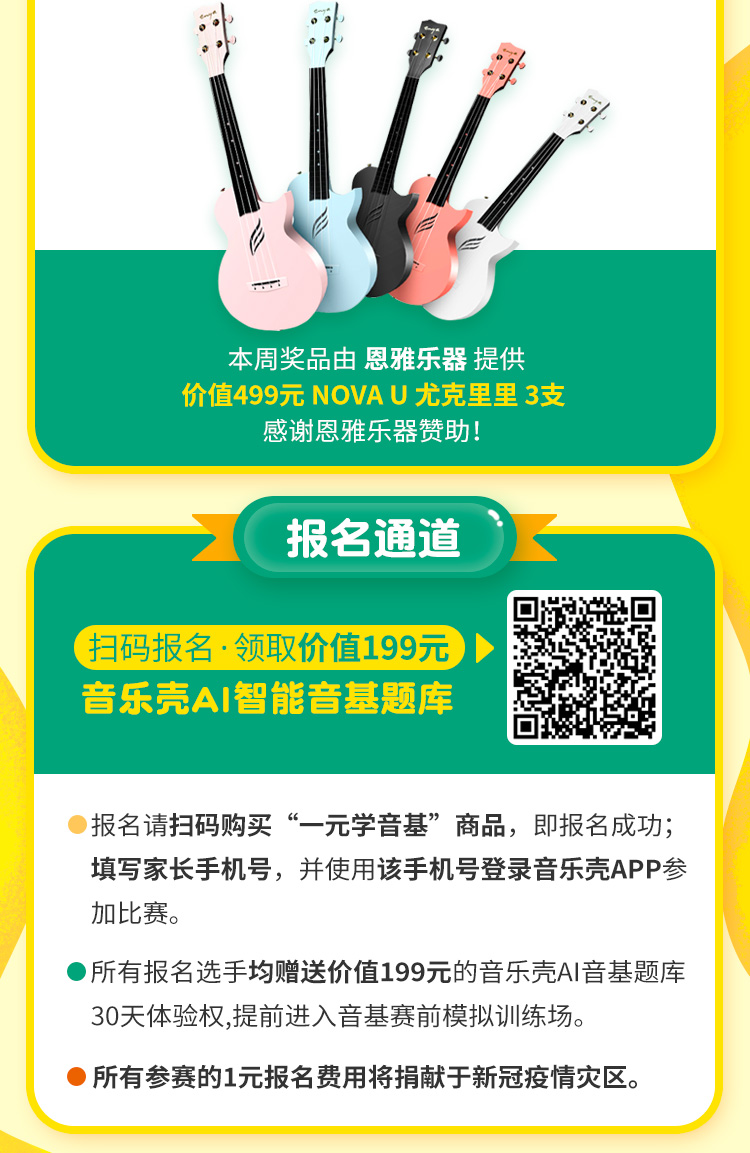
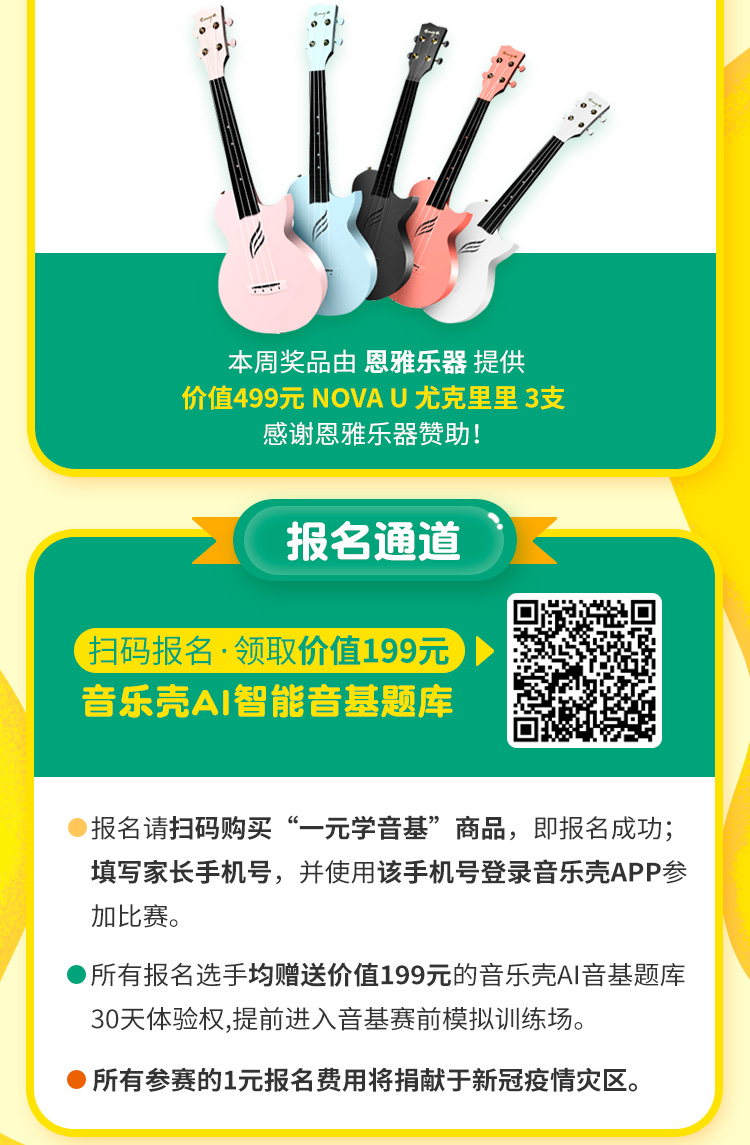
音乐挑战

diff --git a/yinyueke-h5/src/modules/sightSingShare/src/index.vue b/yinyueke-h5/src/modules/sightSingShare/src/index.vue
@@ -35,12 +35,9 @@
           <div class="two"></div>
           <div class="three"></div>
           <div class="four"></div>
-          <!-- <div class="two"></div>
-          <div class="one"></div>
-          <div class="four"></div>
-          <div class="three"></div>
-          <div class="five"></div> -->
-
+        </div>
+        <div class="audio_play">
+          <img src="../../../assets/img/sightSingShare/audio_play.png" alt="">
         </div>
       </div>
       <div class="learn_wrapper">
@@ -253,6 +250,9 @@ export default {
       top: 50%;
       left: 50%;
       transform: translate(-50%, -50%);
+      img{
+        width: 80px;
+      }
       div {
         width: 3px;
         height: 100%;

diff --git a/yinyueke-h5/src/common/util.js b/yinyueke-h5/src/common/util.js
@@ -82,9 +82,9 @@ function getCountDown(lefttime) {
     var h = parseInt(lefttime / (60 * 60) % 24);
     var m = parseInt(lefttime / 60 % 60);
     var s = parseInt(lefttime % 60);
-    // h = formatNumber(h);
-    // m = formatNumber(m);
-    // s = formatNumber(s);
+     //h = formatNumber(h);
+     //m = formatNumber(m);
+     s = formatNumber(s);
     var str = d + "天" + h + "小时" + m + "分" + s + '秒';
     if(lefttime<=0){
         str = "已开始";

diff --git a/yinyueke-h5/src/modules/qbRace/src/index.vue b/yinyueke-h5/src/modules/qbRace/src/index.vue
@@ -71,7 +71,7 @@ export default {
   position: absolute;
   width: 100%;
   text-align: center;
-  top: 19%;
+  top: 20.8%;
   left: 0;
   //left: 30%;
   font-size: 13px;
@@ -82,7 +82,7 @@ export default {
 .enbtn {
   position: absolute;
   width: 222px;
-  top: 16.1%;
+  top: 17.6%;
   left: 50%;
   transform: translateX(-50%);
 }
